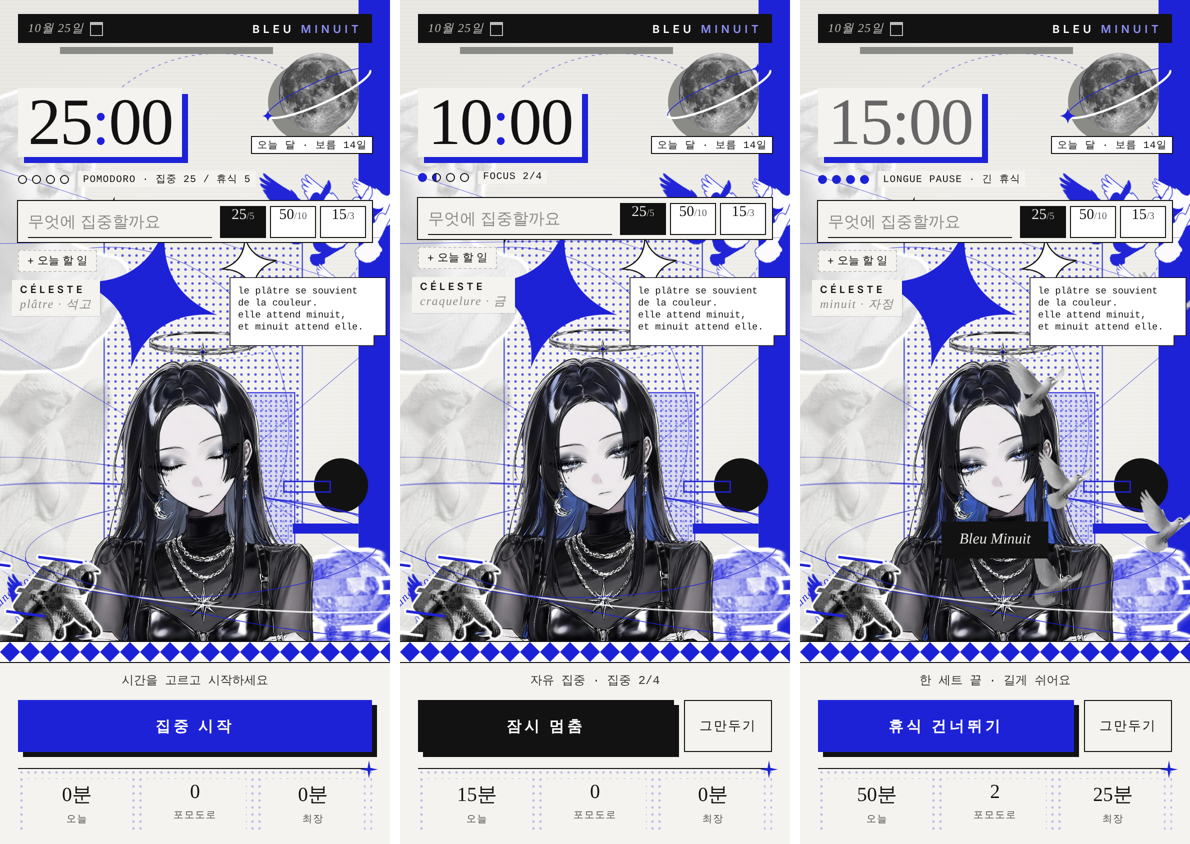
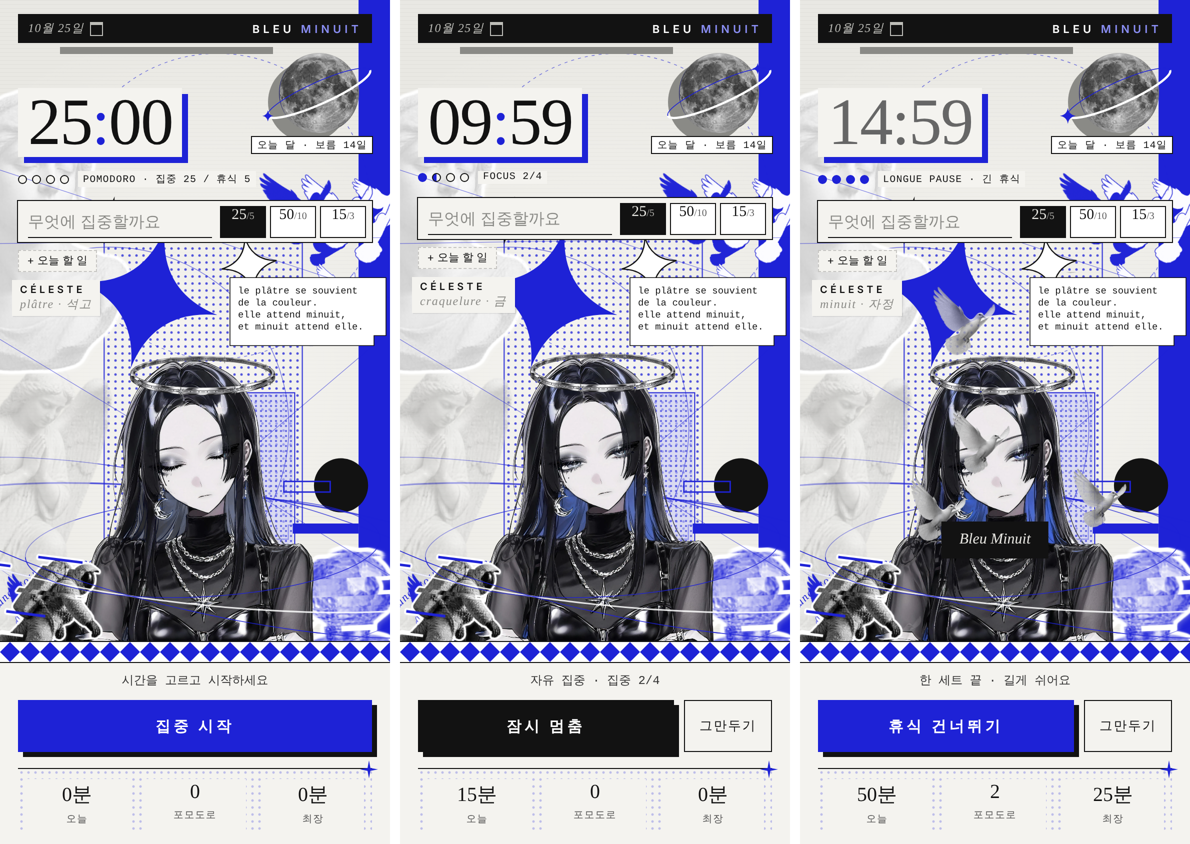
헤일로: 정수리를 감싸는 은빛 고리 + 계속 도는 별 8개(집중한 만큼 파란 보석), 머리 움직임·기울기를 따라감
Claude-Session: https://claude.ai/code/session_015z2jERGhkXRnxmKCmzk3Uw

diff --git a/work/celeste/app/index.html b/work/celeste/app/index.html
@@ -211,7 +211,7 @@ const OBJS = ['angel','arch','armillary','astronaut','birdcage','book','bust','c
 const PARTS = '../parts/';
 // 원화(1228×2416)에서 무대에 보일 세로 범위: 머리 위 ~ 난간 아래
 const IW = 1228, IH = 2416, VIEW_Y0 = 330, VIEW_Y1 = 2150;
-const HALO = {x:650, y:318, rx:250};          // 원화 좌표, 머리 위에 살짝 떠 있게
+const HALO = {x:650, y:470, rx:340};          // 원화 좌표, 정수리를 감싸는 높이
 
 /* ═══ 날짜로 정해지는 난수: 같은 날엔 같은 콜라주 ═══ */
 function rngOf(str){ let h = 2166136261; for(const c of str){ h ^= c.charCodeAt(0); h = Math.imul(h, 16777619); }
@@ -444,11 +444,32 @@ async function buildCollage(){
 function cloneCanvas(c){ const o = canvasOf(c.width, c.height); o.getContext('2d').drawImage(c, 0, 0); return o; }
 
 /* ═══ 헤일로: 머리 뒤(위쪽 반원)와 앞(아래쪽 반원)으로 나눠 그린다. 별이 진행도만큼 돈다 ═══ */
-// 은빛 고리 그림(힉스필드)을 뒤 반(머리 뒤)·앞 반(머리 앞)으로 나눠 머리를 감싼다.
-// halo_*.webp 1344×576 안에서 고리 중심 (671.5, 245), 가로 반지름 637.5
-function haloSvg(front){
-  const s = HALO.rx/637.5, w = 1344*s, h = 576*s;
-  return `<image href="${PARTS}halo_${front ? 'front' : 'back'}.webp" x="${HALO.x - 671.5*s}" y="${HALO.y - 245*s}" width="${w}" height="${h}"/>`;
+// 은빛 고리(힉스필드) — 뒤 반은 캐릭터 뒤, 앞 반은 캐릭터 앞으로 머리를 감싼다.
+// 고리 위로 별 장식 8개가 계속 돌고, 집중한 만큼 파란 보석 별로 바뀐다. 머리 움직임·기울기를 그대로 따라간다.
+// ring.png(1344×576) 안의 고리 중심 (671.5, 288.5), 바깥 가로 반지름 647.5 / 별이 지나는 선 632 × 148
+const RING = {cx:671.5, cy:288.5, rx:647.5, orx:632, ory:148};
+const STARS = 8, svgNS = 'http://www.w3.org/2000/svg';
+let haloStars = [];
+function buildHalo(){
+  const s = HALO.rx/RING.rx, X = v => HALO.x + (v - RING.cx)*s, Y = v => HALO.y + (v - RING.cy)*s;
+  $('haloB').innerHTML = `<g id="hb"><image href="${PARTS}halo_back.webp" x="${X(20)}" y="${Y(113)}" width="${1300*s}" height="${180*s}"/><g id="hbS"></g></g>`;
+  $('haloF').innerHTML = `<g id="hf"><image href="${PARTS}halo_front.webp" x="${X(20)}" y="${Y(284)}" width="${1300*s}" height="${183*s}"/><g id="hfS"></g></g>`;
+  haloStars = Array.from({length:STARS}, ()=>{ const im = document.createElementNS(svgNS, 'image'); im.setAttribute('href', PARTS + 'halo_star.webp'); im._blue = false; return im; });
+}
+function drawHalo(t, p, head, roll){
+  const tf = `translate(${head.x.toFixed(2)} ${head.y.toFixed(2)}) rotate(${(roll*180/Math.PI).toFixed(3)} 650 1150)`;
+  $('hb').setAttribute('transform', tf); $('hf').setAttribute('transform', tf);
+  const s = HALO.rx/RING.rx, lit = Math.floor(p*STARS + 1e-6);
+  haloStars.forEach((im, i)=>{
+    const th = t*.22 + i*Math.PI*2/STARS, sn = Math.sin(th), front = sn > 0;
+    const k = .72 + .28*(sn + 1)/2, w = 84*k, h = w*160/141;                   // 앞으로 올수록 크게
+    const x = HALO.x + Math.cos(th)*RING.orx*s, y = HALO.y + sn*RING.ory*s;
+    im.setAttribute('x', (x - w/2).toFixed(1)); im.setAttribute('y', (y - h/2).toFixed(1));
+    im.setAttribute('width', w.toFixed(1)); im.setAttribute('height', h.toFixed(1));
+    im.setAttribute('opacity', front ? 1 : .8);
+    const blue = i < lit; if(blue !== im._blue){ im._blue = blue; im.setAttribute('href', PARTS + (blue ? 'halo_star_blue.webp' : 'halo_star.webp')); }
+    const parent = $(front ? 'hfS' : 'hbS'); if(im.parentNode !== parent) parent.appendChild(im);
+  });
 }
 
 /* ═══ 기록 (기존 앱과 같은 키) ═══ */
@@ -699,7 +720,7 @@ let rig = null, shown = 0;
 (async ()=>{
   fit(); setPomo(pomo); paintStats();
   ['haloB','haloF'].forEach(id=>{ $(id).setAttribute('viewBox', `0 0 ${IW} ${IH}`); });
-  $('haloB').innerHTML = haloSvg(false); $('haloF').innerHTML = haloSvg(true);
+  buildHalo(); drawHalo(0, 0, {x:0, y:0}, 0);
   rig = await CelesteRig($('c'), {base:'../rig/', parts:PARTS, input:$('stage'), capture:location.hash === '#shot'});
   $('loading').remove();
   window.rig = rig;
@@ -708,10 +729,7 @@ let rig = null, shown = 0;
     const want = mode === 'finished' ? 1 : progress();
     shown += (want - shown) * .04;
     rig.draw(ms/1000, shown);
-    // 헤일로는 머리를 따라 움직인다
-    const h = rig.S.head, sc = $('figure').clientWidth / IW;
-    const tf = `translate(${h.x*sc}px, ${h.y*sc}px)`;
-    $('haloB').style.transform = tf; $('haloF').style.transform = tf;
+    drawHalo(ms/1000, progress(), rig.S.head, rig.S.roll.x);         // 헤일로는 머리를 따라 움직이고 계속 돈다
     requestAnimationFrame(loop);
   };
   if(location.hash !== '#still') requestAnimationFrame(loop);

diff --git a/.claude/skills/illust/log.md b/.claude/skills/illust/log.md
@@ -62,3 +62,9 @@
 - 레퍼런스: char.webp 목걸이·별 펜던트·달 귀걸이 크롭 1장 (금속 표현만)
 - 프롬프트: "Anime illustration asset: a single elegant halo ring, seen from slightly above in perspective so it forms a wide flat ellipse (about four times wider than tall), centered, filling the width, on a fully transparent background. Use the reference image only for the metal rendering style: polished chrome silver drawn with thin black ink outlines, hard cel-shaded white highlight bands and dark grey reflections, no soft glow. The ring is slender and refined, like fine jewelry: a thin double band with a delicate engraved line between the bands, small eight-pointed silver stars set along it at irregular intervals, and one slightly larger eight-pointed star at the front center with a small deep cobalt blue (#1E22D6) gemstone in its middle as the only color. A few very fine silver threads of light crossing the ring. Luxurious, minimal, gothic, not cluttered. No text, no glow particles, no head or person, no background, no ornate filler swirls."
 - 후처리: 고리 중심 (671.5, 245), 가로 반지름 637.5. 곡선 y = 245 − 28·(1−u²) 위/아래로 뒤·앞 반 분리
+
+## 2026-10-25 회전하는 헤일로 (halo_back/front.webp = 고리, halo_star(_blue).webp = 도는 별)
+- 모델: gpt_image_2_5, quality high, background transparent, 레퍼런스 = 같은 장신구 크롭 1장 (각 1.5크레딧)
+- 고리(21:9): "...a single slender halo ring seen from slightly above in perspective, forming a wide flat ellipse about four and a half times wider than tall... The ring must look exactly the same all the way around so it can spin: a thin double band with an evenly repeating fine engraving of tiny dots and short lines between the two bands, no gems, no stars, no ornaments, no clasp, no break. The near (lower) side slightly thicker and brighter..."
+- 별(16:9): "...exactly two small jewelry star ornaments side by side... Left: an eight-pointed silver star, four long points and four short points... Right: the identical star with a small round deep cobalt blue (#1E22D6) faceted gemstone in its center with one tiny white glint..."
+- 고리 중심 (671.5, 288.5), 바깥 가로 반지름 647.5, 별 궤도 632×148. 가운데 줄에서 뒤·앞 반 분리
